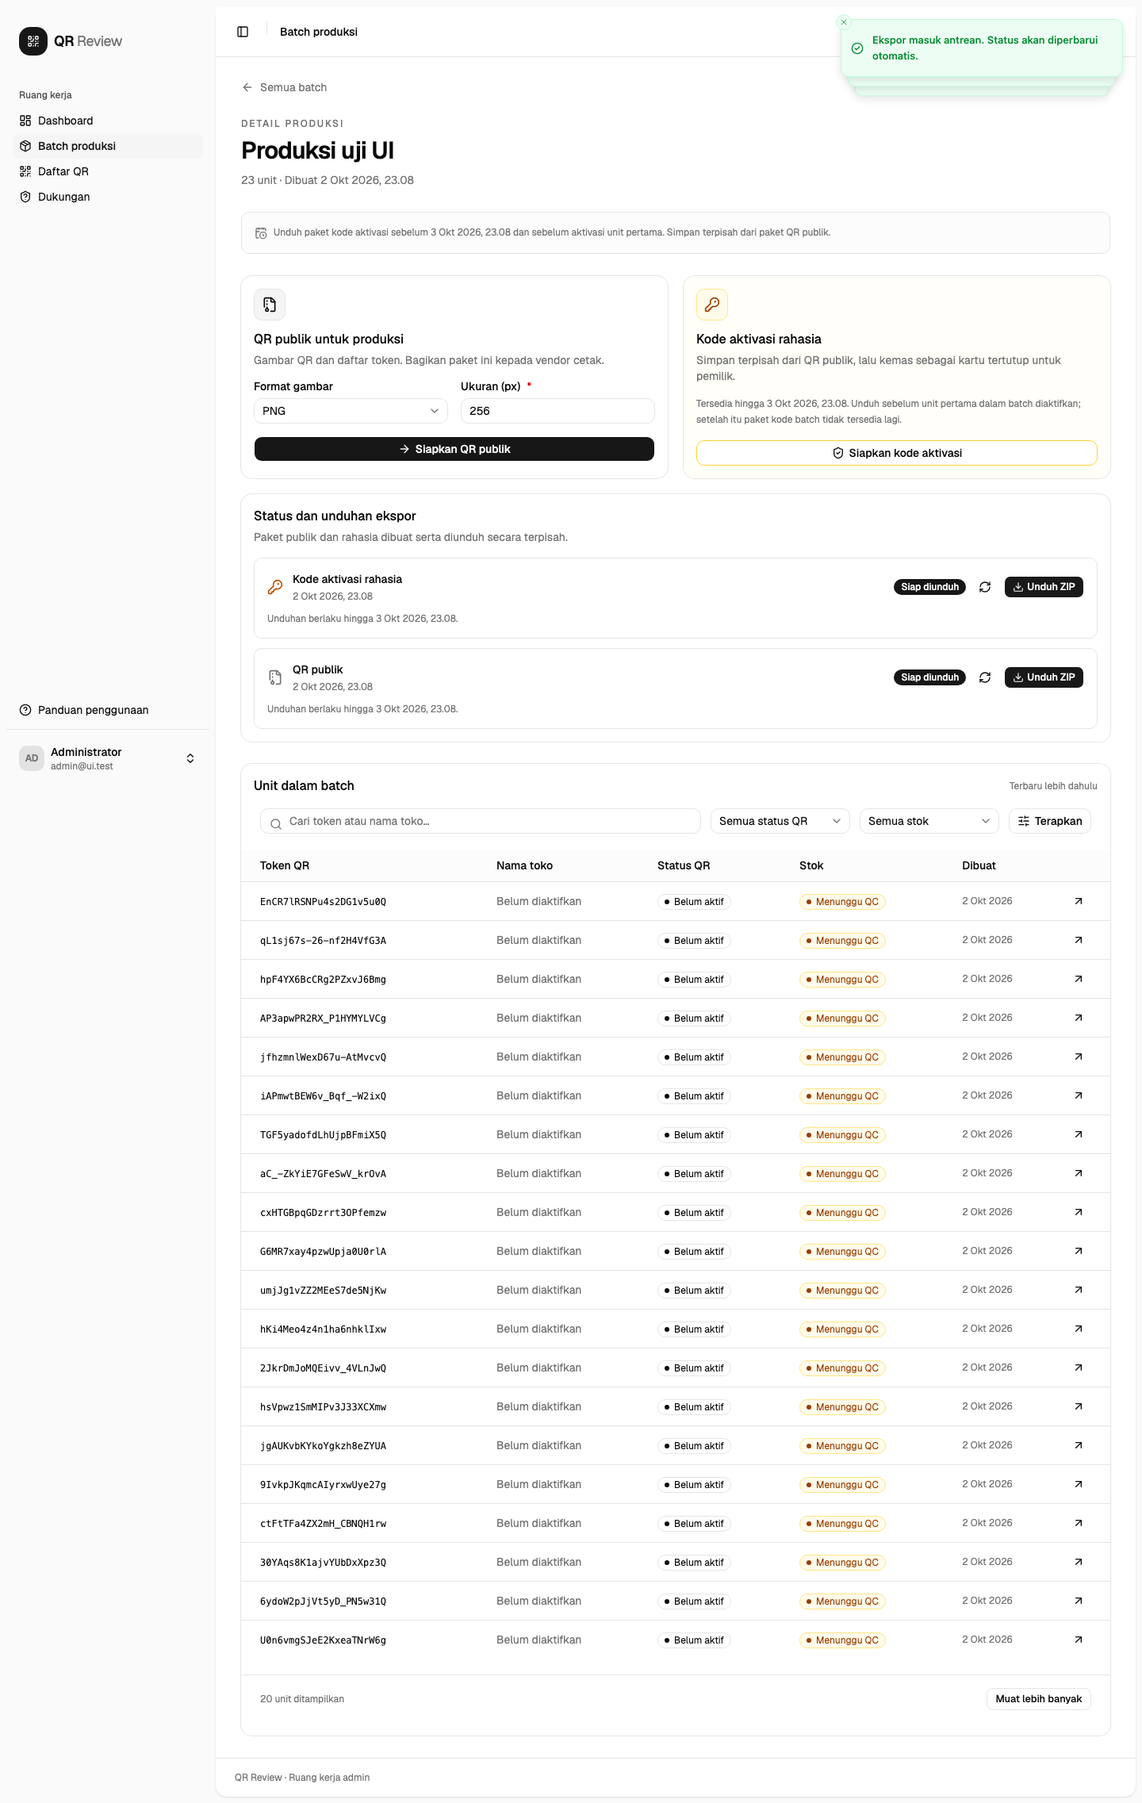
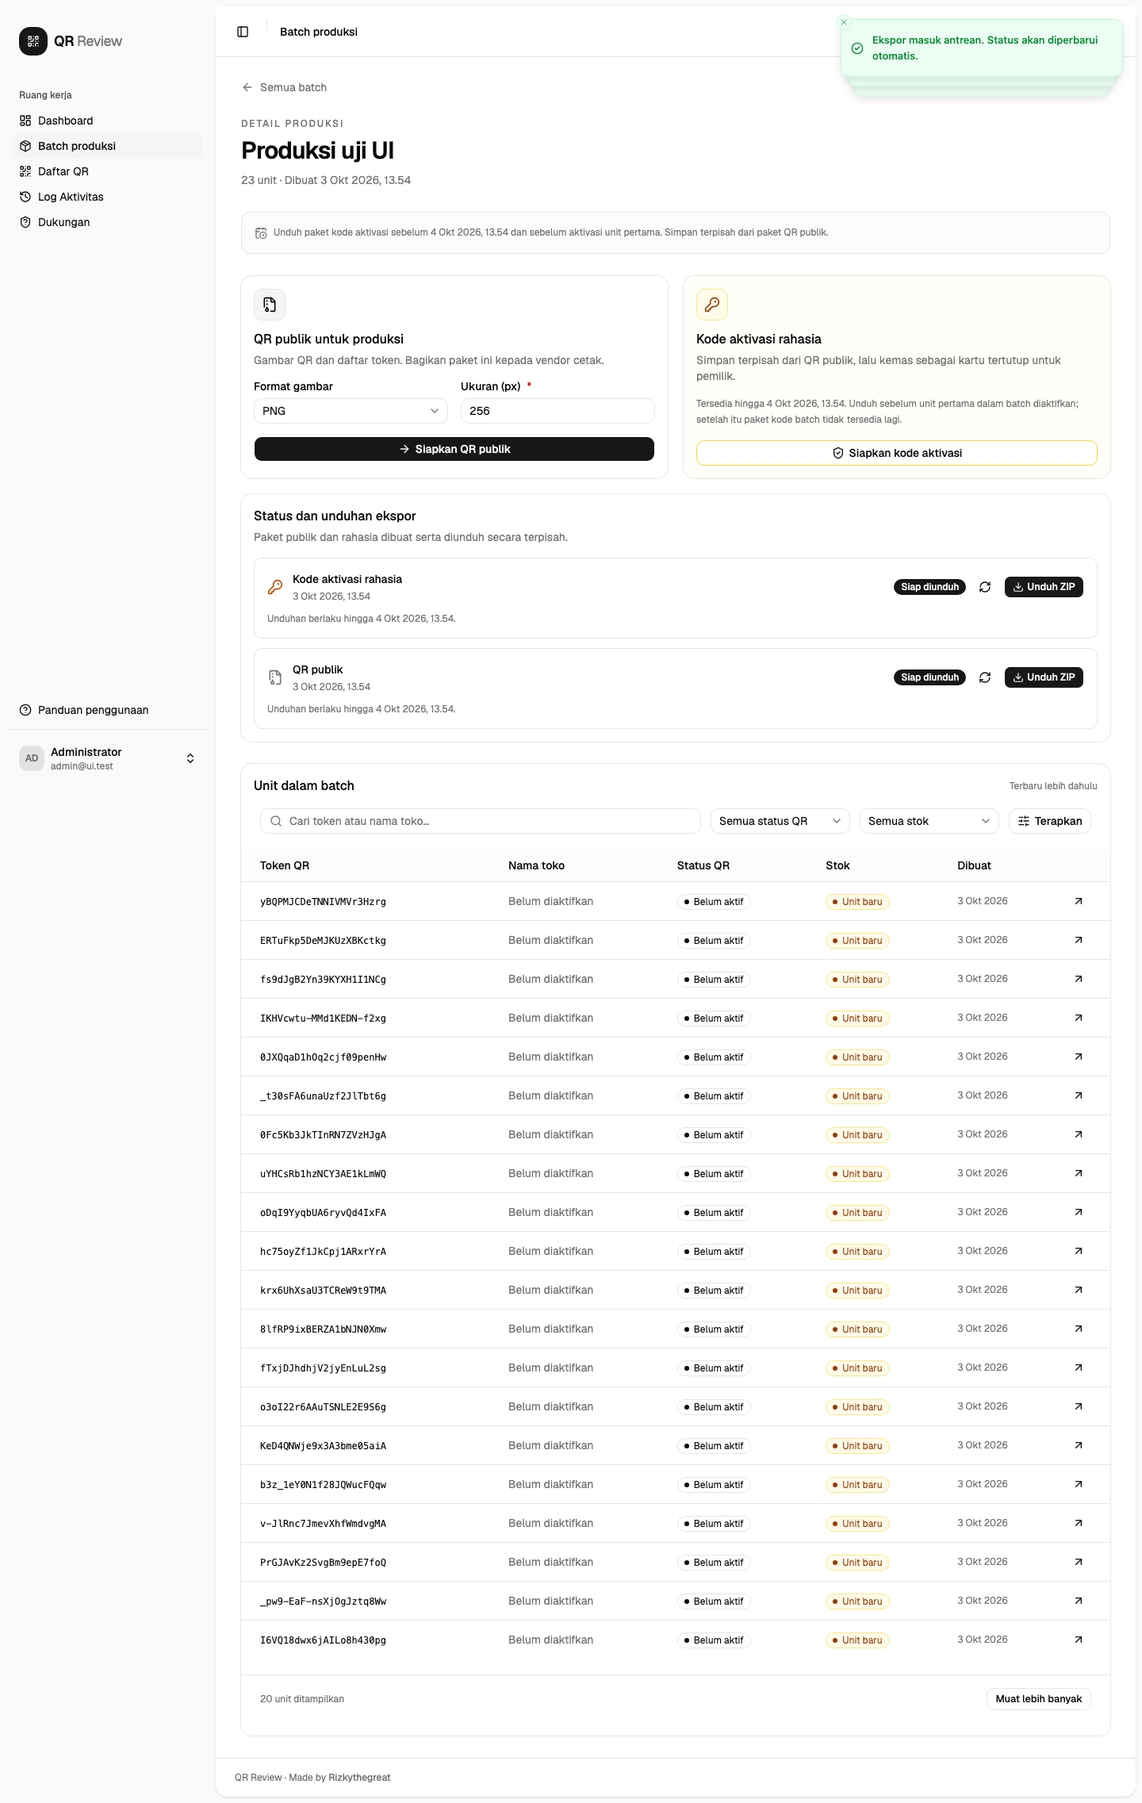
feat: allow direct sales without the manual QC step

diff --git a/src/components/admin/qr-detail.tsx b/src/components/admin/qr-detail.tsx
@@ -146,22 +146,17 @@ export function QrDetail({ id, initialTab = 'overview' }: { id: string; initialT
           {qr.status === 'UNACTIVATED' && ['GENERATED', 'AVAILABLE'].includes(qr.stock_status) && (
             <Card>
               <CardHeader>
-                <CardTitle className="text-base">Stok dan pemeriksaan kualitas</CardTitle>
+                <CardTitle className="text-base">Stok dan penjualan</CardTitle>
                 <CardDescription>
-                  Periksa hasil cetak sebelum menjual unit kepada toko.
+                  Catat penjualan untuk mengizinkan pemilik mengaktifkan QR.
                 </CardDescription>
               </CardHeader>
               <CardContent className="flex flex-wrap gap-3">
-                {qr.stock_status === 'GENERATED' && (
-                  <StockAction qr={qr} etag={etag} target="AVAILABLE" />
-                )}
-                <StockAction qr={qr} etag={etag} target="DAMAGED" />
-                {qr.stock_status === 'AVAILABLE' && (
-                  <Button variant="outline" onClick={() => setTab('sales')}>
-                    <ShoppingBag />
-                    Catat penjualan
-                  </Button>
-                )}
+                <Button onClick={() => setTab('sales')}>
+                  <ShoppingBag />
+                  Catat penjualan
+                </Button>
+                <DamageAction qr={qr} etag={etag} />
               </CardContent>
             </Card>
           )}
@@ -257,20 +252,12 @@ function QrPreview({ qr }: { qr: AdminQr }) {
     </Card>
   );
 }
-function StockAction({
-  qr,
-  etag,
-  target,
-}: {
-  qr: AdminQr;
-  etag: string | null;
-  target: 'AVAILABLE' | 'DAMAGED';
-}) {
+function DamageAction({ qr, etag }: { qr: AdminQr; etag: string | null }) {
   const [open, setOpen] = useState(false);
   const [openedEtag, setOpenedEtag] = useState(etag);
   const api = useAdminApi();
   const queries = useQueryClient();
-  const action = useAction((body: { stock_status: 'AVAILABLE' | 'DAMAGED'; reason: string }) =>
+  const action = useAction((body: { stock_status: 'DAMAGED'; reason: string }) =>
     api<AdminQr>(`/api/v1/admin/qr-codes/${qr.id}/stock`, {
       method: 'PATCH',
       body,
@@ -280,16 +267,12 @@ function StockAction({
   async function submit(event: FormEvent<HTMLFormElement>) {
     event.preventDefault();
     const result = await action.run({
-      stock_status: target,
+      stock_status: 'DAMAGED',
       reason: String(new FormData(event.currentTarget).get('reason')).trim(),
     });
     if (!result) return;
     setOpen(false);
-    toast.success(
-      target === 'AVAILABLE'
-        ? 'Unit siap dijual.'
-        : 'Unit ditandai rusak dan tidak lagi digunakan.',
-    );
+    toast.success('Unit ditandai rusak dan tidak lagi digunakan.');
     void queries.invalidateQueries({ queryKey: ['admin'] });
   }
   return (
@@ -304,27 +287,24 @@ function StockAction({
       }}
     >
       <DialogTrigger asChild>
-        <Button variant={target === 'DAMAGED' ? 'outline' : 'default'}>
+        <Button variant="outline">
           <ClipboardCheck />
-          {target === 'AVAILABLE' ? 'Lolos QC · siap dijual' : 'Tandai rusak'}
+          Tandai rusak
         </Button>
       </DialogTrigger>
       <DialogContent>
         <DialogHeader>
-          <DialogTitle>
-            {target === 'AVAILABLE' ? 'Tandai unit siap dijual' : 'Tandai unit rusak'}
-          </DialogTitle>
+          <DialogTitle>Tandai unit rusak</DialogTitle>
           <DialogDescription>
-            {target === 'AVAILABLE'
-              ? 'Pastikan QR dapat dipindai dan hasil produksi layak diberikan kepada toko.'
-              : 'Unit akan dinonaktifkan dan tidak dapat dijual atau diaktifkan. Paket kode batch juga tidak lagi berlaku.'}
+            Unit akan dinonaktifkan dan tidak dapat dijual atau diaktifkan. Paket kode batch juga
+            tidak lagi berlaku.
           </DialogDescription>
         </DialogHeader>
         <form onSubmit={submit} className="space-y-5">
           <div className="grid gap-2">
-            <Label htmlFor={`stock-reason-${target}`}>Catatan pemeriksaan</Label>
+            <Label htmlFor="stock-reason-damaged">Catatan pemeriksaan</Label>
             <Textarea
-              id={`stock-reason-${target}`}
+              id="stock-reason-damaged"
               name="reason"
               minLength={5}
               maxLength={500}
@@ -333,9 +313,7 @@ function StockAction({
             />
           </div>
           <FormError error={action.error} />
-          <SubmitButton pending={action.pending}>
-            {target === 'AVAILABLE' ? 'Konfirmasi siap dijual' : 'Konfirmasi unit rusak'}
-          </SubmitButton>
+          <SubmitButton pending={action.pending}>Konfirmasi unit rusak</SubmitButton>
         </form>
       </DialogContent>
     </Dialog>
@@ -343,13 +321,13 @@ function StockAction({
 }
 function Sales({ qr, etag }: { qr: AdminQr; etag: string | null }) {
   if (qr.stock_status === 'SOLD') return <SaleInformation qrId={qr.id} />;
-  if (qr.stock_status !== 'AVAILABLE' || qr.status !== 'UNACTIVATED')
+  if (!['GENERATED', 'AVAILABLE'].includes(qr.stock_status) || qr.status !== 'UNACTIVATED')
     return (
       <Card>
         <CardHeader>
           <CardTitle className="text-base">Penjualan belum tersedia</CardTitle>
           <CardDescription>
-            Unit harus lolos QC dan berstatus siap dijual sebelum penjualan dicatat.
+            Penjualan hanya dapat dicatat untuk unit baru atau siap dijual yang belum diaktifkan.
           </CardDescription>
         </CardHeader>
       </Card>

diff --git a/tests/integration/api.test.ts b/tests/integration/api.test.ts
@@ -316,7 +316,7 @@ describe('admin, production and inventory', () => {
     ).toMatchObject({ stock_status: 'AVAILABLE', version: 2 });
   });
 
-  it('enforces If-Match, QC transitions and one durable sale per unit', async () => {
+  it('enforces If-Match, legacy stock transitions and one durable sale per unit', async () => {
     const { qr } = await batch();
     const q = qr[0],
       path = `/api/v1/admin/qr-codes/${q.id}`;
@@ -363,6 +363,63 @@ describe('admin, production and inventory', () => {
       ).error.code,
     ).toBe('STOCK_TRANSITION_INVALID');
   });
+  it('records a new unit sale directly and keeps activation, audit and retry consistent', async () => {
+    const b = await batch();
+    const q = b.qr[0];
+    const path = `/api/v1/admin/qr-codes/${q.id}`;
+    expect((await call('GET', `/api/v1/public/qr/${q.token}`)).data.activation_allowed).toBe(false);
+    const body = { reference: 'DIRECT-SALE', sold_at: new Date(Date.now() - 1000).toISOString() };
+    const key = randomUUID();
+    const result = await call('POST', path + '/sales', body, { version: 1, key });
+    expect(result.status).toBe(201);
+    expect((await call('GET', path)).data).toMatchObject({ stock_status: 'SOLD', version: 2 });
+    const replay = await call('POST', path + '/sales', body, { version: 1, key });
+    expect(replay.data.id).toBe(result.data.id);
+    expect(
+      (await db.pool.query('SELECT count(*) FROM qr_review.sales_records')).rows[0].count,
+    ).toBe('1');
+    const audit = (await call('GET', path + '/audit-events')).data;
+    expect(audit.map((event: any) => event.action)).toEqual(['SALE_RECORDED', 'BATCH_GENERATED']);
+    expect((await call('GET', `/api/v1/public/qr/${q.token}`)).data.activation_allowed).toBe(true);
+    const activated = await call(
+      'POST',
+      `/api/v1/public/qr/${q.token}/activate`,
+      setup(b.codes[0].activation_code),
+    );
+    expect(activated.status).toBe(201);
+    expect((await call('GET', path)).data.status).toBe('ACTIVE');
+  });
+
+  it('serializes concurrent direct sales and rejects damaged or retired unsold units', async () => {
+    const b = await batch(3);
+    const body = { reference: 'DIRECT-SALE', sold_at: new Date(Date.now() - 1000).toISOString() };
+    const results = await Promise.all([
+      call('POST', `/api/v1/admin/qr-codes/${b.qr[0].id}/sales`, body, { version: 1 }),
+      call('POST', `/api/v1/admin/qr-codes/${b.qr[0].id}/sales`, body, { version: 1 }),
+    ]);
+    expect(results.map((result) => result.status).sort()).toEqual([201, 412]);
+    await call(
+      'PATCH',
+      `/api/v1/admin/qr-codes/${b.qr[1].id}/stock`,
+      { stock_status: 'DAMAGED', reason: 'Print failed' },
+      { version: 1 },
+    );
+    await call(
+      'POST',
+      `/api/v1/admin/qr-codes/${b.qr[2].id}/retire`,
+      { reason: 'Not in use' },
+      { version: 1 },
+    );
+    for (const qr of b.qr.slice(1))
+      expect(
+        (await call('POST', `/api/v1/admin/qr-codes/${qr.id}/sales`, body, { version: 2 })).error
+          .code,
+      ).toBe('STOCK_TRANSITION_INVALID');
+    expect(
+      (await db.pool.query('SELECT count(*) FROM qr_review.sales_records')).rows[0].count,
+    ).toBe('1');
+  });
+
   it('makes DAMAGED stock and RETIRED QR terminal without recycling a token', async () => {
     const { qr } = await batch();
     const q = qr[0],

diff --git a/scripts/verify-ui.ts b/scripts/verify-ui.ts
@@ -439,16 +439,13 @@ async function main() {
     await expect(admin.locator('tbody tr')).toHaveCount(1);
     mark('QR search and cursor pagination');
 
-    stage = 'QC and sales';
+    stage = 'direct sales';
     await owner.goto(`${origin}/r/${qr.token}`);
     await expect(owner.getByText('QR belum siap diaktifkan', { exact: true })).toBeVisible();
     await admin.goto(`${origin}/admin/qr-codes/${qr.id}`);
-    await admin.getByRole('button', { name: 'Lolos QC · siap dijual', exact: true }).click();
-    await admin
-      .getByRole('dialog')
-      .getByLabel(fieldLabel('Catatan pemeriksaan'))
-      .fill('Cetak bagus dan QR berhasil dipindai');
-    await admin.getByRole('button', { name: 'Konfirmasi siap dijual', exact: true }).click();
+    await expect(
+      admin.getByRole('button', { name: 'Lolos QC · siap dijual', exact: true }),
+    ).toHaveCount(0);
     await admin.getByRole('button', { name: 'Catat penjualan', exact: true }).click();
     await admin.getByLabel(fieldLabel('Referensi penjualan')).fill('UI-SALE-001');
     await admin.getByLabel(fieldLabel('Nama pembeli (opsional)')).fill('Kopi Bahagia');
@@ -461,7 +458,9 @@ async function main() {
       (await readFile((await (await svgDownload).path())!, 'utf8')).includes('<svg'),
     ).toBeTruthy();
     await screenshot(admin, 'qr-desktop');
-    mark('Activation blocked before sale, QC, recorded sale and SVG download');
+    mark(
+      'Activation blocked before sale, direct sale without manual QC, recorded sale and SVG download',
+    );
 
     stage = 'activation';
     const response = await owner.goto(`${origin}/r/${qr.token}`);
@@ -756,19 +755,11 @@ async function main() {
 
     stage = 'rotated activation and expired session';
     const currentQr = (await api(`/api/v1/admin/qr-codes/${rotatedQr.id}`)).data;
-    const available = (
-      await api(
-        `/api/v1/admin/qr-codes/${rotatedQr.id}/stock`,
-        'PATCH',
-        { stock_status: 'AVAILABLE', reason: 'Unit rotasi telah lulus pemeriksaan cetak' },
-        `"v${currentQr.version}"`,
-      )
-    ).data;
     await api(
       `/api/v1/admin/qr-codes/${rotatedQr.id}/sales`,
       'POST',
       { reference: 'UI-SALE-ROTATE', sold_at: new Date(Date.now() - 1000).toISOString() },
-      `"v${available.version}"`,
+      `"v${currentQr.version}"`,
     );
     await owner.goto(`${origin}/r/${rotatedQr.token}`);
     await owner

diff --git a/src/components/admin/dashboard.tsx b/src/components/admin/dashboard.tsx
@@ -85,18 +85,19 @@ export function AdminDashboard() {
             <Card className="bg-muted/35">
               <CardHeader>
                 <Clock className="mb-2 size-5 text-muted-foreground" />
-                <CardTitle className="text-base">Siapkan unit berikutnya</CardTitle>
+                <CardTitle className="text-base">Catat penjualan unit baru</CardTitle>
                 <CardDescription>
-                  {number(data.stock_counts.GENERATED)} unit menunggu pemeriksaan kualitas.
+                  {number(data.stock_counts.GENERATED)} unit baru tersedia di stok.
                 </CardDescription>
               </CardHeader>
               <CardContent>
                 <p className="mb-5 text-sm leading-relaxed text-muted-foreground">
-                  Periksa hasil cetak, lalu tandai unit layak sebagai siap dijual.
+                  Catat penjualan ketika unit diberikan kepada toko agar pemilik dapat mengaktifkan
+                  QR.
                 </p>
                 <Button asChild variant="outline" className="w-full justify-between">
                   <Link href="/admin/qr-codes?stock_status=GENERATED">
-                    Lihat antrean QC
+                    Lihat unit baru
                     <ArrowRight />
                   </Link>
                 </Button>

diff --git a/src/components/section-cards.tsx b/src/components/section-cards.tsx
@@ -24,11 +24,11 @@ export function SectionCards({ data }: { data: Dashboard }) {
       href: '/admin/qr-codes',
     },
     {
-      label: 'Siap dijual',
-      value: data.stock_counts.AVAILABLE,
+      label: 'Unit baru',
+      value: data.stock_counts.GENERATED,
       icon: PackageCheck,
-      note: 'Lolos QC dan tersedia di stok',
-      href: '/admin/qr-codes?stock_status=AVAILABLE',
+      note: 'Belum tercatat penjualannya',
+      href: '/admin/qr-codes?stock_status=GENERATED',
     },
     {
       label: 'QR aktif',

diff --git a/src/server/domain.ts b/src/server/domain.ts
@@ -201,7 +201,7 @@ export class Domain {
   ) {
     let q = await getQr(db, id, false, true);
     checkVersion(q, ifMatch);
-    if (q.stock_status !== 'AVAILABLE' || q.status !== 'UNACTIVATED')
+    if (!['GENERATED', 'AVAILABLE'].includes(q.stock_status) || q.status !== 'UNACTIVATED')
       conflict('STOCK_TRANSITION_INVALID');
     const sale = (
       await db.query(

diff --git a/src/components/common.tsx b/src/components/common.tsx
@@ -145,7 +145,7 @@ export const qrLabels: Record<QrStatus, string> = {
   RETIRED: 'Tidak digunakan',
 };
 export const stockLabels: Record<StockStatus, string> = {
-  GENERATED: 'Menunggu QC',
+  GENERATED: 'Unit baru',
   AVAILABLE: 'Siap dijual',
   SOLD: 'Terjual',
   DAMAGED: 'Rusak',

diff --git a/src/lib/audit.ts b/src/lib/audit.ts
@@ -1,6 +1,6 @@
 export const auditActions: Record<string, string> = {
   BATCH_GENERATED: 'Unit dibuat',
-  STOCK_AVAILABLE: 'Lolos QC',
+  STOCK_AVAILABLE: 'Unit siap dijual',
   STOCK_DAMAGED: 'Unit rusak',
   SALE_RECORDED: 'Penjualan tercatat',
   ACTIVATED: 'QR diaktifkan',

diff --git a/docs/ui-implementation.md b/docs/ui-implementation.md
@@ -8,7 +8,7 @@ Tailwind CSS v4 dan komponen shadcn/ui dari registry resmi, preset Radix Nova. B
 
 ## Cakupan
 
-- Admin: login/logout Supabase, verifikasi allowlist, dashboard, pencarian/filter/paginasi QR, daftar/detail/buat batch, ekspor publik dan kode aktivasi terpisah, polling job, unduhan PNG/SVG/ZIP, QC stok, pencatatan penjualan, serta log aktivitas seluruh QR dengan filter QR/toko, tindakan, dan tanggal WIB.
+- Admin: login/logout Supabase, verifikasi allowlist, dashboard, pencarian/filter/paginasi QR, daftar/detail/buat batch, ekspor publik dan kode aktivasi terpisah, polling job, unduhan PNG/SVG/ZIP, penandaan stok rusak, pencatatan penjualan langsung tanpa tahap QC manual, serta log aktivitas seluruh QR dengan filter QR/toko, tindakan, dan tanggal WIB.
 - Publik: halaman awal, aktivasi sesuai status, validasi link dan PIN, hasil sukses, fallback resolver untuk QR tidak dikenal, belum terjual, suspend, retire, rate limit dan gangguan layanan.
 - Pemilik: token/link QR dan PIN, sesi cookie, profil toko, statistik kunjungan, uji tujuan, update dengan ETag/CSRF, ganti PIN, logout, sesi berakhir dan tampilan read-only ketika suspend.
 - Dukungan: reset PIN dan transfer dengan alasan/referensi verifikasi, claim melalui fragment yang segera dihapus, rotasi kode aktivasi, suspend/resume/retire dan audit.
@@ -16,12 +16,12 @@ Tailwind CSS v4 dan komponen shadcn/ui dari registry resmi, preset Radix Nova. B
 
 ## Verifikasi
 
-Build produksi, typecheck dan lint berhasil. Tes backend: 83 unit + 39 integrasi. [Laporan browser](../artifacts/ui-verification.json) merekam 20 skenario yang lulus tanpa error JavaScript; Chromium memakai viewport desktop 1440 × 1000 dan mobile 390 × 844. Log aktivitas juga diperiksa pada iPad 820 × 1180. Tes berjalan terhadap server Next.js produksi dengan database PostgreSQL sementara dan Auth simulasi yang memverifikasi signature JWT. Kredensial Supabase lokal tidak digunakan untuk mengubah data produksi saat pengujian. Login memakai akun Supabase asli tetap perlu dicoba oleh admin pada project tersebut.
+Build produksi, typecheck dan lint berhasil. Tes backend: 83 unit + 41 integrasi. [Laporan browser](../artifacts/ui-verification.json) merekam 20 skenario yang lulus tanpa error JavaScript; Chromium memakai viewport desktop 1440 × 1000 dan mobile 390 × 844. Log aktivitas juga diperiksa pada iPad 820 × 1180. Tes berjalan terhadap server Next.js produksi dengan database PostgreSQL sementara dan Auth simulasi yang memverifikasi signature JWT. Kredensial Supabase lokal tidak digunakan untuk mengubah data produksi saat pengujian. Login memakai akun Supabase asli tetap perlu dicoba oleh admin pada project tersebut.
 
 | Tahap / kebutuhan | Bukti browser                                                                                                                                                                            |
 | ----------------- | ---------------------------------------------------------------------------------------------------------------------------------------------------------------------------------------- |
 | Admin             | Redirect halaman terlindungi, password salah, penolakan allowlist, dashboard kosong, buat batch, logout dan akses ditolak kembali                                                        |
-| Batch/produksi    | Paginasi 23 unit, pencarian token, ekspor ZIP publik dan kode terpisah, polling job latar belakang, decode PNG ke URL publik, unduh SVG, QC dan sale                                     |
+| Batch/produksi    | Paginasi 23 unit, pencarian token, ekspor ZIP publik dan kode terpisah, polling job latar belakang, decode PNG ke URL publik, unduh SVG, penjualan langsung tanpa QC manual              |
 | Aktivasi          | `/r/TOKEN` tetap menjadi alamat halaman, blok sebelum SOLD, error link review dan konfirmasi PIN tanpa kehilangan isian, kode dinormalisasi, PIN dengan nol awal                         |
 | Pemilik           | Cookie HTTPS, CSRF dan X-QR-If-Match, perubahan link langsung dipakai 302, HEAD tanpa hitungan, kunjungan durable, konflik version mempertahankan draft dan meminta refresh eksplisit    |
 | PIN/sesi          | Ganti PIN mencabut sesi, PIN lama ditolak, login PIN baru, logout, expiry mengembalikan login, lima kegagalan memberi countdown dan menonaktifkan submit                                 |

diff --git a/README.md b/README.md
@@ -38,7 +38,7 @@ Daftarkan user email/password admin di Supabase Auth terlebih dahulu dan tambahk
 Setelah server dan worker berjalan, gunakan urutan berikut:
 
 1. Buka `/admin`, buat batch, lalu siapkan dan unduh ZIP QR publik serta ZIP kode aktivasi secara terpisah.
-2. Buka detail QR, tandai lolos QC, lalu catat penjualan.
+2. Buka detail QR dan langsung catat penjualan; tahap lolos QC manual disembunyikan.
 3. Pindai QR atau buka `/r/TOKEN`. Pemilik mengisi kode aktivasi, nama toko, link review Google dan PIN empat digit.
 4. Pemilik membuka `/manage` menggunakan token dan PIN untuk memperbarui link, melihat kunjungan atau mengganti PIN.
 5. Admin menggunakan tab Dukungan di detail QR untuk reset PIN, transfer, rotasi kode, suspend/resume atau penonaktifan permanen. Bantuan penggunaan tersedia di `/help`.
@@ -73,7 +73,7 @@ Mutasi yang ditandai kontrak memerlukan UUID `Idempotency-Key`. Retry jaringan m
 
 Gunakan ETag dari GET QR admin atau GET `/owner/me` sebagai `If-Match`, misalnya `"v3"`. Mutasi pemilik memerlukan cookie sesi, `Origin` persis `PUBLIC_ORIGIN`, dan `X-CSRF-Token` dari login atau GET `/owner/me`. Aktivasi dan claim grant juga memerlukan Origin, dan tidak otomatis membuat sesi. Setelah berhasil, pemilik login lewat `/api/v1/owner/sessions`.
 
-Alur produksi: buat batch → ekspor publik/rahasia → QC `AVAILABLE` → catat penjualan `SOLD` → aktivasi dengan kode dan PIN. Dukungan reset/transfer memerlukan alasan dan referensi verifikasi oleh admin; pemeriksaan bukti dilakukan di luar aplikasi. Link claim memuat secret pada fragment, bukan query. UI menghapus fragment sebelum inisialisasi Auth, menyimpan grant hanya di memori halaman, lalu mengirimnya melalui POST. Membuka ulang halaman tanpa fragment memerlukan tautan lengkap dari admin.
+Alur produksi: buat batch → ekspor publik/rahasia → langsung catat penjualan `SOLD` dari `GENERATED` atau `AVAILABLE` → aktivasi dengan kode dan PIN. Dukungan reset/transfer memerlukan alasan dan referensi verifikasi oleh admin; pemeriksaan bukti dilakukan di luar aplikasi. Link claim memuat secret pada fragment, bukan query. UI menghapus fragment sebelum inisialisasi Auth, menyimpan grant hanya di memori halaman, lalu mengirimnya melalui POST. Membuka ulang halaman tanpa fragment memerlukan tautan lengkap dari admin.
 
 Rincian endpoint, payload, kode error, serta aturan bisnis tetap merujuk OpenAPI. [Pemetaan implementasi dan pengujian](docs/implementation.md) menjelaskan bukti backend untuk setiap acceptance criterion. [Runbook deployment dan pemulihan](docs/operations.md) memuat pengaturan worker, monitoring, serta backup.
 
